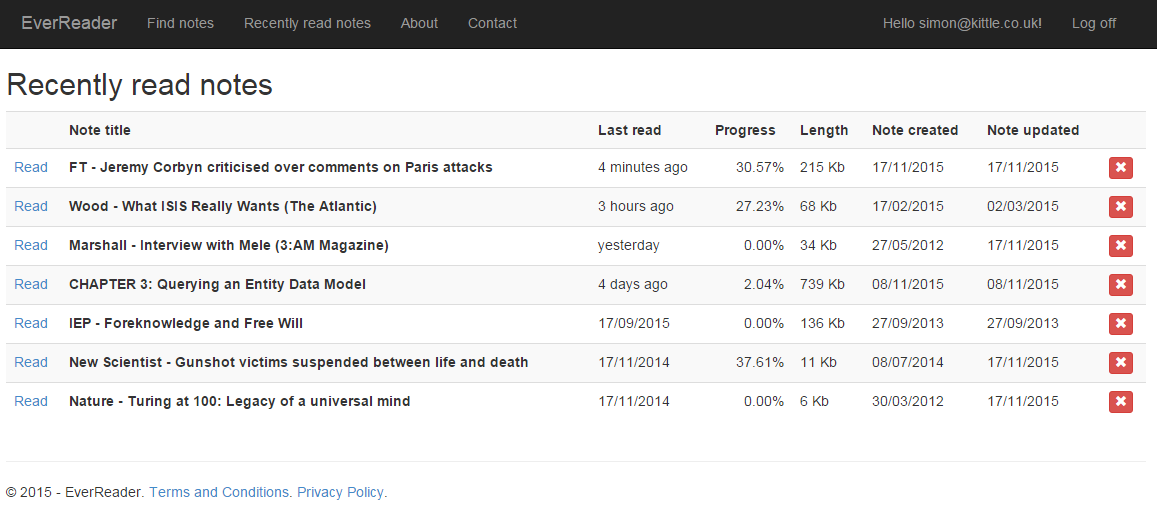
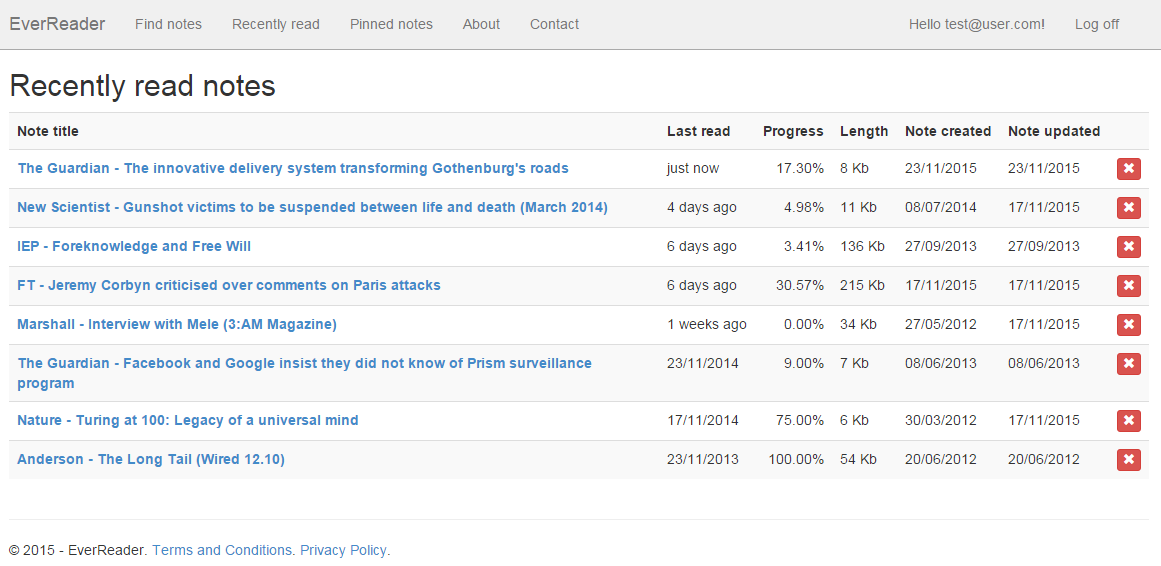
Fixed some minor layout issues; updated screenshots

Changed region(s): [[0.0, 0.0, 1.0, 0.8529], [0.0, 0.9412, 0.3423, 1.0]]

diff --git a/EverReader/src/EverReader/wwwroot/js/site.min.js b/EverReader/src/EverReader/wwwroot/js/site.min.js
@@ -1,1 +1,1 @@
-"use strict";function everReaderNotify(e){$.notify({message:e},{type:"success",placement:{from:"bottom",align:"center"},delay:2500,animate:{enter:"animated fadeInDown",exit:"animated fadeOutUp"}})}var lastSavedScrollTop=0,lastSavedScrollTopResetTimerSet=0,reader=function(e){function o(){var o=e(document).height(),t=e(window).height(),a=e(window).scrollTop();return a/(o-t)*100}function t(o){var t=e(document).height(),a=e(window).height(),r=o/100*(t-a);e(window).scrollTop(r)}function a(){var e=window.getSelection().toString();""!=e&&(d=e)}function r(){return d}function n(){var o=reader.calculateDocumentReadPosition(),t=reader.getSelection()||"[ untitled ]";return t.length>30&&(t=t.slice(0,t.indexOf(" ",30)+1)+"..."),e.ajax("/api/bookmarks/"+noteGuid,{method:"POST",data:{percentageRead:o,bookmarkTitle:t},success:function(){i.readerViewModel.addBookmark(o,t),everReaderNotify("Bookmark successfully added")},error:function(){}}),!1}var i={readerViewModel:null},d="";return i.calculateDocumentReadPosition=o,i.getSelection=r,i.navigateToPosition=t,i.saveSelection=a,i.addBookmark=n,i}($);$(document).ready(function(){$("body").click(reader.saveSelection),$("#addBookmark").click(reader.addBookmark),$(window).scroll(null,function(){var e=$(document).height(),o=$(window).height(),t=$(window).scrollTop();setTimeout(function(){var a=$(document).height(),r=$(window).height(),n=$(window).scrollTop();if(a==e&&r==o&&n==t&&n>lastSavedScrollTop){var i=t/(e-o)*100;$.ajax("/api/bookmarks/"+noteGuid,{method:"PUT",data:{percentageRead:i},success:function(){lastSavedScrollTop=t},error:function(){}})}a==e&&r==o&&n==t&&lastSavedScrollTop>n&&0==lastSavedScrollTopResetTimerSet&&(lastSavedScrollTopResetTimerSet=1,setTimeout(function(){lastSavedScrollTop=0,lastSavedScrollTopResetTimerSet=0},4e3))},700);var a=t/(e-o)*100;$("#positionReport").text(a.toPrecision(4)+"%")}),reader.navigateToPosition(percentageRead),reader.readerViewModel=function(){function e(e){return e.toPrecision(4)+"%"}function o(o,a){for(var r=0==t().length?0:t().length,n=0;n<t().length;n++)if(t()[n].percentageRead>o){r=n;break}t().splice(r,0,{action:function(){reader.navigateToPosition(o)},text:"["+e(o)+"] "+a,percentageRead:o})}var t=ko.observableArray([]);return{bookmarks:t,addBookmark:o}}(),ko.applyBindings(reader.readerViewModel),$.ajax("/api/bookmarks/"+noteGuid,{method:"GET",data:{},success:function(e){e.forEach(function(e){reader.readerViewModel.addBookmark(e.PercentageRead,e.BookmarkTitle)})},error:function(){}})});
+"use strict";function everReaderNotify(e,o){$.notify({message:e},{type:o||"success",placement:{from:"bottom",align:"center"},delay:2500,animate:{enter:"animated fadeInDown",exit:"animated fadeOutUp"}})}var lastSavedScrollTop=0,lastSavedScrollTopResetTimerSet=0,reader=function(e){function o(){var o=e(document).height(),r=e(window).height(),t=e(window).scrollTop();return t/(o-r)*100}function r(o){var r=e(document).height(),t=e(window).height(),a=o/100*(r-t);e(window).scrollTop(a)}function t(){var e=window.getSelection().toString();""!=e&&(c=e)}function a(){return c}function n(){var o=reader.calculateDocumentReadPosition(),r=reader.getSelection()||"[ untitled ]";return r.length>30&&(r=r.slice(0,r.indexOf(" ",30)+1)+"..."),e.ajax("/api/bookmarks/"+noteGuid,{method:"POST",data:{percentageRead:o,bookmarkTitle:r},success:function(e){d.readerViewModel.addBookmark(e.id,o,r),everReaderNotify("Bookmark added")},error:function(){}}),!1}function i(o,r){return e.ajax("/api/bookmarks/"+noteGuid,{method:"DELETE",data:{id:r},success:function(e){e.error?everReaderNotify("There was a problem deleting your bookmark","danger"):(d.readerViewModel.deleteBookmark(r),everReaderNotify("Bookmark deleted"))},error:function(){everReaderNotify("There was a problem deleting your bookmark","danger")}}),o.stopPropagation(),e("#koContextMenu").remove(),!1}var d={readerViewModel:null},c="";return d.calculateDocumentReadPosition=o,d.getSelection=a,d.navigateToPosition=r,d.saveSelection=t,d.addBookmark=n,d.deleteBookmark=i,d}($);$(document).ready(function(){$("body").click(reader.saveSelection),$("#addBookmark").click(reader.addBookmark),$(window).scroll(null,function(){var e=$(document).height(),o=$(window).height(),r=$(window).scrollTop();setTimeout(function(){var t=$(document).height(),a=$(window).height(),n=$(window).scrollTop();if(t==e&&a==o&&n==r&&n>lastSavedScrollTop){var i=r/(e-o)*100;$.ajax("/api/bookmarks/"+noteGuid,{method:"PUT",data:{percentageRead:i},success:function(){lastSavedScrollTop=r},error:function(){}})}t==e&&a==o&&n==r&&lastSavedScrollTop>n&&0==lastSavedScrollTopResetTimerSet&&(lastSavedScrollTopResetTimerSet=1,setTimeout(function(){lastSavedScrollTop=0,lastSavedScrollTopResetTimerSet=0},4e3))},700);var t=r/(e-o)*100;$("#positionReport").text(t.toPrecision(4)+"%")}),reader.navigateToPosition(percentageRead),reader.readerViewModel=function(){function e(e){return e.toPrecision(4)+"%"}function o(o,r,a){for(var n=0==t().length?0:t().length,i=0;i<t().length;i++)if(t()[i].percentageRead>r){n=i;break}t().splice(n,0,{id:o,action:function(){reader.navigateToPosition(r)},text:"["+e(r)+"] "+a+"&nbsp;<span class='glyphicon glyphicon-remove pull-right' onclick='return reader.deleteBookmark(event, "+o+");' style='top: 3px'></span>",percentageRead:r})}function r(e){for(var o=0;o<t().length;o++)if(t()[o].id==e){t().splice(o,1);break}}var t=ko.observableArray([]);return{bookmarks:t,addBookmark:o,deleteBookmark:r}}(),ko.applyBindings(reader.readerViewModel),$.ajax("/api/bookmarks/"+noteGuid,{method:"GET",data:{},success:function(e){e.forEach(function(e){reader.readerViewModel.addBookmark(e.Id,e.PercentageRead,e.BookmarkTitle)})},error:function(){}})});

diff --git a/EverReader/src/EverReader/wwwroot/lib/knockout.contextmenu/dist/js/knockout.contextmenu.js b/EverReader/src/EverReader/wwwroot/lib/knockout.contextmenu/dist/js/knockout.contextmenu.js
@@ -99,38 +99,40 @@ function bindContextMenu(ko, document) {
         menuElement = activeElement.element;
 
         hideCurrentMenu();
+        
+        if (menuElement) {
+            // make visibility hidden, then add to DOM so that we can get the height/width of the menu
+            menuElement.style.visibility = 'hidden';
+            (document.body || document).appendChild(menuElement);
 
-        // make visibility hidden, then add to DOM so that we can get the height/width of the menu
-        menuElement.style.visibility = 'hidden';
-        (document.body || document).appendChild(menuElement);
+            // set location
+            if (event) {
+                var bottomOfViewport = window.innerHeight + window.pageYOffset;
+                var rightOfViewport = window.innerWidth + window.pageXOffset;
 
-        // set location
-        if (event) {
-          var bottomOfViewport = window.innerHeight + window.pageYOffset;
-          var rightOfViewport = window.innerWidth + window.pageXOffset;
+                if (mouseY(event) + menuElement.offsetHeight > bottomOfViewport) {
+                    menuElement.style.top = 1 * (bottomOfViewport - menuElement.offsetHeight - 10) + 'px';
+                } else {
+                    menuElement.style.top = mouseY(event) + 'px';
+                }
 
-          if (mouseY(event) + menuElement.offsetHeight > bottomOfViewport) {
-            menuElement.style.top = 1 * (bottomOfViewport - menuElement.offsetHeight - 10) + 'px';
-          } else {
-            menuElement.style.top = mouseY(event) + 'px';
-          }
+                if (mouseX(event) + menuElement.offsetWidth > rightOfViewport) {
+                    menuElement.style.left = 1 * (rightOfViewport - menuElement.offsetWidth - 10) + 'px';
+                } else {
+                    menuElement.style.left = mouseX(event) + 'px';
+                }
 
-          if (mouseX(event) + menuElement.offsetWidth > rightOfViewport) {
-            menuElement.style.left = 1 * (rightOfViewport - menuElement.offsetWidth - 10) + 'px';
-          } else {
-            menuElement.style.left = mouseX(event) + 'px';
-          }
+                event.preventDefault();
+                event.stopPropagation();
+            }
+            else {
+                menuElement.style.top = (element.offsetTop + element.offsetHeight) + 'px';
+                menuElement.style.left = (element.offsetLeft + element.offsetWidth) + 'px';
+            }
 
-          event.preventDefault();
-          event.stopPropagation();
+            // now set to visible
+            menuElement.style.visibility = '';
         }
-        else {
-          menuElement.style.top = (element.offsetTop + element.offsetHeight) + 'px';
-          menuElement.style.left = (element.offsetLeft + element.offsetWidth) + 'px';
-        }
-
-        // now set to visible
-        menuElement.style.visibility = '';
 
         // replace current menu with the recently created
         currentMenu = menuElement;

diff --git a/EverReader/src/EverReader/wwwroot/css/site.min.css b/EverReader/src/EverReader/wwwroot/css/site.min.css
@@ -1,1 +1,1 @@
-.affix{top:50px}.popr_content hr{border-color:#ccc}.popr_point_bottom:after{border-bottom-color:#eee}.popr_point_top:after{border-top-color:#eee}.popr_content{background-color:#eee}body{padding-top:50px;padding-bottom:20px}.body-content{padding-left:15px;padding-right:15px}input,select,textarea{max-width:280px}.carousel-caption{z-index:10!important}.carousel-caption p{font-size:20px;line-height:1.4}@media (min-width:768px){.carousel-caption{z-index:10!important}}.navbar-inverse-text-color{color:#999}.navbar-fixed-bottom>div>div{padding-top:5px;padding-bottom:5px}
+.affix{top:50px}.popr_content hr{border-color:#ccc}.popr_point_bottom:after{border-bottom-color:#eee}.popr_point_top:after{border-top-color:#eee}.popr_content{background-color:#eee}body{padding-top:50px;padding-bottom:20px}.body-content{padding-left:15px;padding-right:15px}input,select,textarea{max-width:280px}.carousel-caption{z-index:10!important}.carousel-caption p{font-size:20px;line-height:1.4}@media (min-width:768px){.carousel-caption{z-index:10!important}}.navbar-inverse-text-color{color:#999}.navbar-fixed-top{border-bottom:1px solid #aaa;background-color:#f0f0f0}.navbar-fixed-bottom{border-top:1px solid #aaa;background-color:#f0f0f0}.navbar-fixed-bottom>div>div{padding-top:5px;padding-bottom:5px}.glyphicon-help-icon{font-size:18px}
